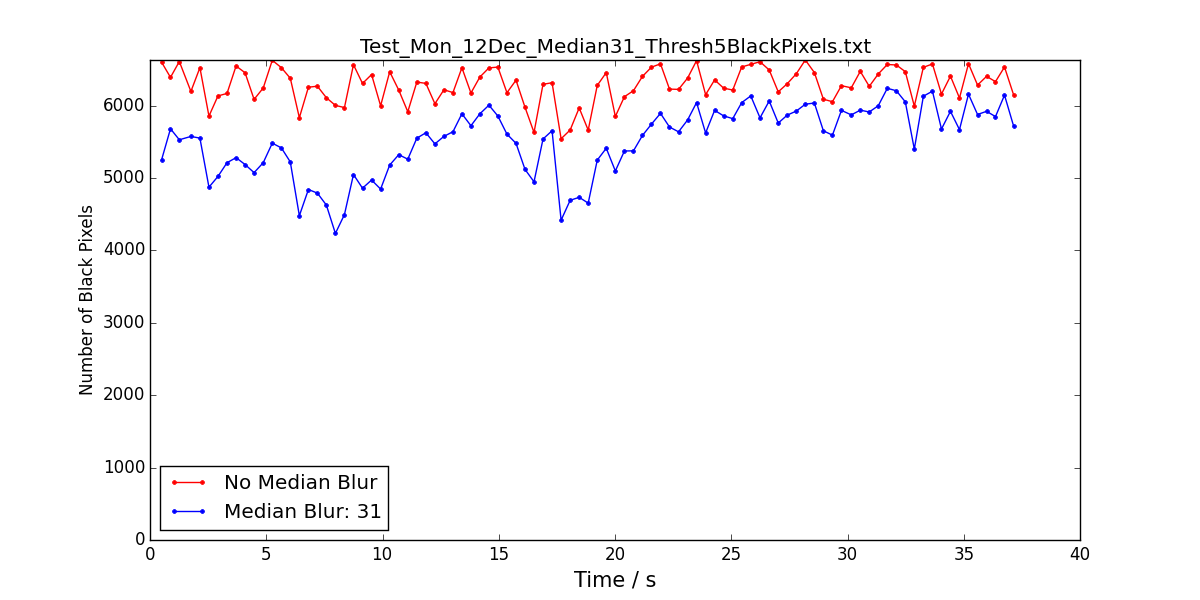
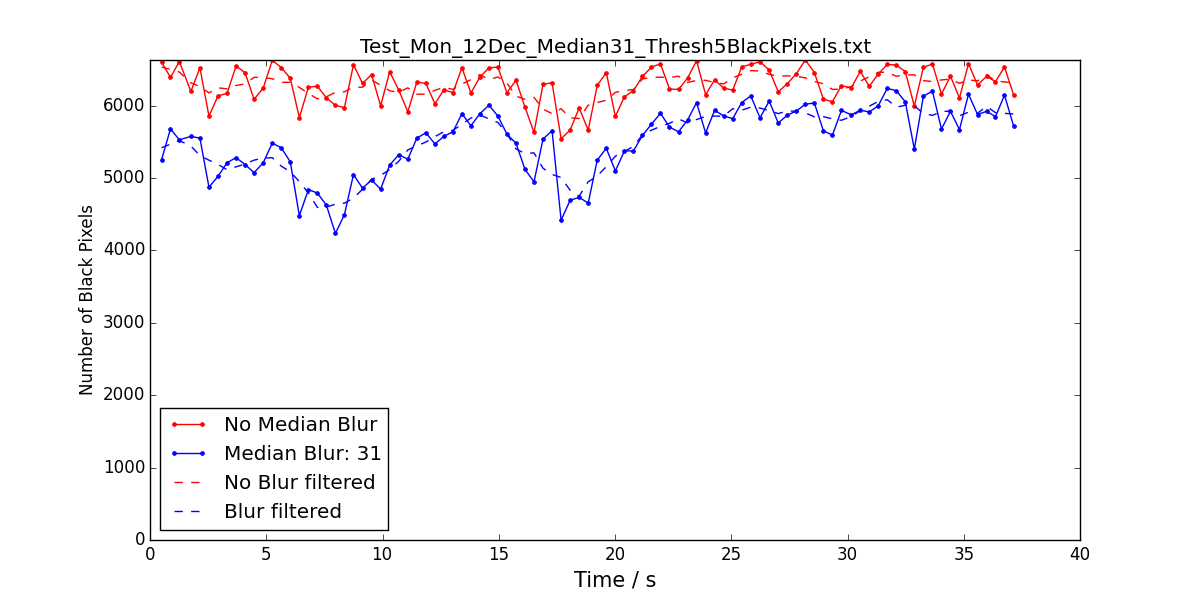
Upgraded plot with some basic filtering and stat calculations

Changed region(s): [[0.1233, 0.66, 0.3392, 0.87]]

diff --git a/Data/video_data_plot.py b/Data/video_data_plot.py
@@ -2,6 +2,7 @@
 
 import sys
 import matplotlib.pyplot as plt
+from scipy.signal import savgol_filter 
 
 
 datafile = sys.argv[1]
@@ -54,10 +55,27 @@ plt.figure(2, figsize=(12,6))
 plt.title(datafile)
 plt.plot([float(i)/1000000 for i in data[3]],data[1], 'r.-', label='No Median Blur')
 plt.plot([float(i)/1000000 for i in data[3]],data[2], 'b.-', label='Median Blur: '+datafile.split('_')[3][-2:])
+
+#we filter a filter using a Savitzky-Golay filter for non-periodic signals
+#using a polynomial regression over a small window of data [5 datapoint to order 1 polynomial]
+plt.plot([float(i)/1000000 for i in data[3]], savgol_filter(data[1], 5 , 1),'r--', label='No Blur filtered')
+plt.plot([float(i)/1000000 for i in data[3]], savgol_filter(data[2], 5 , 1),'b--', label='Blur filtered')
+
 #print(data)
 plt.ylim(0, m)
 plt.ylabel('Number of Black Pixels')
 plt.xlabel('Time / s',fontsize=15)
 plt.legend(loc='best')
 plt.savefig(datafile+'_plot_time.png')
+
+print('Average Frame Processing time: '+str(float(data[3][-1])/(len(data[3])*1000000)))+' s/frame'
+print('Average FPS: '+str(1000000*(float(data[0][-1])/float(data[3][-1]))))
+
+#print('Range No Median Blur: '+str(max(data[1])-min(data[1])))
+#print('Range with Median Blur: '+str(max(data[2])-min(data[2])))
+
+
+
+
+
     
